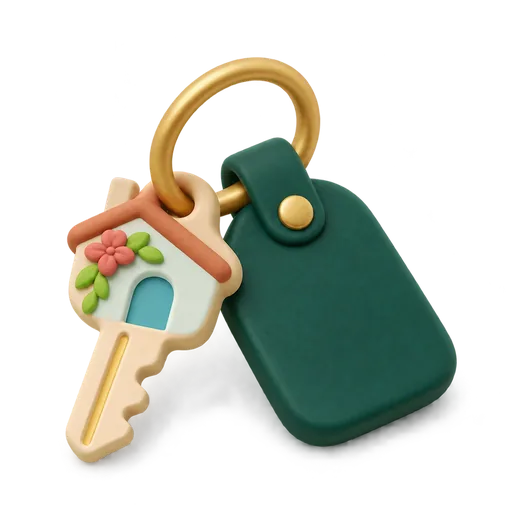
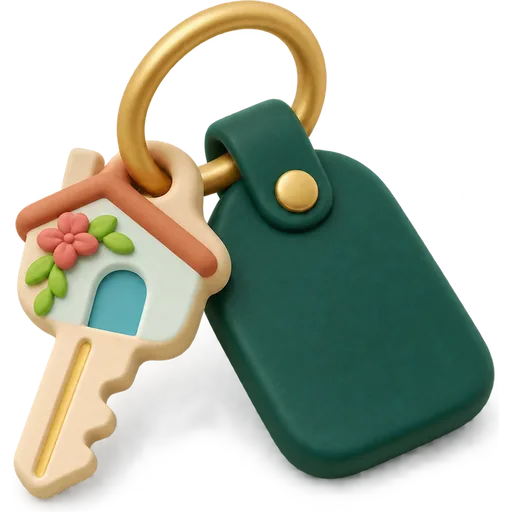
Görev 36.3: 3D görsel boyutları :root içinde tek tabloda; başlık görselleri 3x ekranda 512 px (srcset)

diff --git a/www/index.html b/www/index.html
@@ -92,8 +92,12 @@
     --egri-cekmece:cubic-bezier(.32, .72, 0, 1);    /* 31.1: alttan açılan panel (iOS çekmecesi gibi) */
     --iskelet-gecis:200ms;        /* 34.6: iskeletten içeriğe çapraz solma */
     --hiz-akordeon:300ms;
-    --baslik-gorsel:88px;         /* 35.3 ana sekme başlığının yanındaki 3D görsel; Büyük yazıda ve dar ekranda 48 pt */
-    --baslik-gorsel-kucuk:64px;         /* 34.1: arama adımları (Ne zaman → Kaç kişi) açılıp kapanma */
+    /* 36.3 3D görsel boyutları (hepsi buradan; 88 pt ve üstünde -512.webp, küçüklerde -256.webp) */
+    --g3d-baslik:88px;            /* Villalarım / Takvim / Hesap başlığı */
+    --g3d-baslik-kucuk:64px;      /* aynı başlık: dar ekranda (380 pt ve altı) ve büyük yazıda */
+    --g3d-bolum:56px;             /* bölüm başlıkları (liste doluyken boş hâl görselinin küçüğü) */
+    --g3d-kart:64px;              /* seçim kartları (.secKart) */
+    --g3d-bos:160px;              /* boş hâl ve sihirbaz çizimleri */
     --hiz-baslik:150ms;           /* 34.2: üst çubukta küçük başlığın belirmesi */
     --hiz-morf-ac:380ms;          /* 34.1: kart → arama paneli büyümesi */
     --hiz-morf-kapa:260ms;        /* 34.1: panel → kart küçülmesi (açılıştan hızlı) */
@@ -547,7 +551,7 @@
   /* 11.9 çizimler: en fazla ekranın %60'ı, ortada, altında mevcut metin */
   .cizim{display:block; width:60%; max-width:60vw; height:auto; aspect-ratio:1/1; margin:0 auto .75rem}
   .shSon .cizim{margin-bottom:0}
-  .cizim.cizim3d{width:9.5rem; max-width:50vw}   /* 35.2: 3D görsel 160 pt (boş hâllerle aynı) */
+  .cizim.cizim3d{width:var(--g3d-bos); max-width:50vw}   /* 35.2: 3D görsel, boş hâllerle aynı boy */
   .shSon{text-align:center; padding-top:2rem}
   .shEmoji{font-size:3.5rem; line-height:1}
   .shSon h1{margin-top:.75rem}
@@ -952,7 +956,7 @@
   .bosHal .bosIkon{width:5.5rem; height:5.5rem; border-radius:99px; background:var(--soft); color:var(--ok);
     display:flex; align-items:center; justify-content:center; flex:none}
   /* 34.7: 3D görsel 160 pt, ortada; yoksa yumuşak zeminli ikon dairesi */
-  .bosHal .bosGorsel{width:10rem; height:10rem; display:flex; align-items:center; justify-content:center; color:var(--ok); flex:none}
+  .bosHal .bosGorsel{width:var(--g3d-bos); height:var(--g3d-bos); display:flex; align-items:center; justify-content:center; color:var(--ok); flex:none}
   .bosHal .bosGorsel img{width:100%; height:100%; object-fit:contain}
   .bosHal .bosGorsel > .ik{display:none}
   .bosHal .bosGorsel.yok{width:5.5rem; height:5.5rem; border-radius:99px; background:var(--soft)}
@@ -1111,7 +1115,7 @@
   .secKartBas{font-size:1.0625rem; font-weight:500; line-height:1.3}
   .secKartAlt{font-size:.875rem; color:var(--muted); line-height:1.4}
   .secKartRozet{align-self:flex-start; font-size:.8125rem; color:var(--ok); background:var(--basili-zemin); border-radius:99px; padding:.125rem .5rem}
-  .secKartGorsel{flex:none; width:4rem; height:4rem; display:flex; align-items:center; justify-content:center; color:var(--ok)}
+  .secKartGorsel{flex:none; width:var(--g3d-kart); height:var(--g3d-kart); display:flex; align-items:center; justify-content:center; color:var(--ok)}
   .secKartGorsel img{width:100%; height:100%; object-fit:contain}
   .secKartGorsel > .ik{display:none}
   .secKartGorsel.yok{background:var(--soft); border-radius:1rem}
@@ -1409,15 +1413,16 @@
   .anaBas{display:flex; align-items:center; flex-wrap:wrap; gap:.5rem}
   .anaBas h1{margin:0; flex:none}
   /* 35.4 bölüm başlığının sağında küçük 3D görsel (56 pt). Uygulama hep açık zeminde: görselin arkasında daire yok (şeffaf PNG) */
-  .bolumGorsel{flex:none; display:inline-flex; width:3.5rem; height:3.5rem; align-self:center; margin:-.875rem auto -.875rem 0}
+  .bolumGorsel{flex:none; display:inline-flex; width:var(--g3d-bolum); height:var(--g3d-bolum); align-self:center;
+    margin:calc(var(--g3d-bolum) / -4) auto calc(var(--g3d-bolum) / -4) 0}
   .bolumGorsel img{width:100%; height:100%; object-fit:contain}
   .head > .bolumGorsel{margin:0 0 0 .5rem}
   h1.h1G > .bolumGorsel{margin:-.25rem 0}
   /* 35.3 başlık + 3D görsel aynı satırda, görsel dikey ortalı. Yazı büyüdükçe (kök 17 px'ten büyük) ve dar ekranda 48 pt */
   h1.h1G{display:flex; align-items:center; gap:.5rem}
   .baslikG{flex:none; display:block; object-fit:contain; margin:-1rem 0;
-    width:max(var(--baslik-gorsel-kucuk), calc(var(--baslik-gorsel) - (1rem - 17px) * 8)); height:auto; aspect-ratio:1/1}
-  @media (max-width:380px){ .baslikG{width:var(--baslik-gorsel-kucuk)} }
+    width:max(var(--g3d-baslik-kucuk), calc(var(--g3d-baslik) - (1rem - 17px) * 8)); height:auto; aspect-ratio:1/1}
+  @media (max-width:380px){ .baslikG{width:var(--g3d-baslik-kucuk)} }
   .anaBas #ozet{margin:0 0 0 auto; justify-content:flex-end}
   .anaBas #ozet.sm{margin:.25rem 0 0; flex-basis:100%}
   .anaBas .ozetEt .durumEt{min-height:3rem}
@@ -2076,7 +2081,7 @@
     <!-- 32.7: çift satış riski (kapatılamaz; çözülünce kalkar) -->
     <div id="cakismaKartlar" class="hide"></div>
     <!-- 18.15: başlığın sağında dolu / boş etiketleri (dar ekranda alta iner); altında yalnız "+ Villa ekle" -->
-    <div class="anaBas"><h1 class="h1G"><span>Villalarım</span><img class="baslikG" src="img/3d/baslik-villalar-256.webp" alt="" aria-hidden="true" width="256" height="256" loading="lazy" decoding="async" onerror="this.remove()"></h1><div class="sm muted" id="ozet"></div></div>
+    <div class="anaBas"><h1 class="h1G"><span>Villalarım</span><img class="baslikG" src="img/3d/baslik-villalar-512.webp" srcset="img/3d/baslik-villalar-256.webp 256w, img/3d/baslik-villalar-512.webp 512w" sizes="(max-width:380px) 64px, 88px" alt="" aria-hidden="true" width="256" height="256" loading="lazy" decoding="async" onerror="this.remove()"></h1><div class="sm muted" id="ozet"></div></div>
     <div class="hapSira hide" id="anaHap" role="toolbar"></div>
     <div class="siraIpucu hide" id="siraIpucu"></div>
     <div class="ipucu hide" id="ipucu"></div>
@@ -2103,7 +2108,7 @@
 
   <!-- TAKVİM SEKMESİ: tüm villaların yaklaşan giriş/çıkışları -->
   <div id="ajanda" class="hide sekmeEkran">
-    <h1 class="h1G"><span>Takvim</span><img class="baslikG" src="img/3d/baslik-takvim-256.webp" alt="" aria-hidden="true" width="256" height="256" loading="lazy" decoding="async" onerror="this.remove()"></h1>
+    <h1 class="h1G"><span>Takvim</span><img class="baslikG" src="img/3d/baslik-takvim-512.webp" srcset="img/3d/baslik-takvim-256.webp 256w, img/3d/baslik-takvim-512.webp 512w" sizes="(max-width:380px) 64px, 88px" alt="" aria-hidden="true" width="256" height="256" loading="lazy" decoding="async" onerror="this.remove()"></h1>
     <!-- 33.7: iki parça: Ajanda (giriş / çıkışlar) | Misafirler (bütün villaların misafirleri) -->
     <div class="seg ajUst" id="ajUst" role="tablist">
       <button data-u="ajanda" role="tab">Ajanda</button><button data-u="misafir" role="tab">Misafirler</button>
@@ -2129,7 +2134,7 @@
 
   <!-- HESAP SEKMESİ -->
   <div id="hesapEkran" class="hide sekmeEkran">
-    <h1 class="h1G"><span>Hesap</span><img class="baslikG" src="img/3d/baslik-hesap-256.webp" alt="" aria-hidden="true" width="256" height="256" loading="lazy" decoding="async" onerror="this.remove()"></h1>
+    <h1 class="h1G"><span>Hesap</span><img class="baslikG" src="img/3d/baslik-hesap-512.webp" srcset="img/3d/baslik-hesap-256.webp 256w, img/3d/baslik-hesap-512.webp 512w" sizes="(max-width:380px) 64px, 88px" alt="" aria-hidden="true" width="256" height="256" loading="lazy" decoding="async" onerror="this.remove()"></h1>
     <div style="margin-top:1.25rem">
     <!-- 29.3: Yönetim bölümü yalnız yöneticiye / onaycıya JavaScript ile eklenir (diğer kullanıcılarda DOM'da hiç yok) -->
     <div id="yonetimYer"></div>

diff --git a/www/g.html b/www/g.html
@@ -15,6 +15,7 @@
 <style>
   :root{--bugun:#E5484D;--ink:#12232B;--muted:#5B6A72;--line:#E3E9EC;--soft:#F4F7F8;--dolu:#DDE4E7;--dip:#A3B0B6;
     --yes:#0B5B57;--yesKoyu:#084842;
+    --g3d-misafir:80px; /* 36.3 3D görsellerin boyu (bölüm başlıkları, "Kaç kişi", iletişim, teklif şeridi) */
     --serif:ui-serif,Georgia,"Times New Roman",serif;
     --egri-gecis:cubic-bezier(0.65, 0, 0.35, 1); --egri-giris:cubic-bezier(0.22, 1, 0.36, 1);
     --sans:-apple-system,BlinkMacSystemFont,"Segoe UI",Roboto,Helvetica,Arial,sans-serif}
@@ -270,9 +271,9 @@
   .ornek.bugunOrnek{background:#fff;box-shadow:inset 0 0 0 2.5px var(--bugun)}
   .uyari{font-size:.8125rem;color:#9B2C4A;margin-top:.75rem;min-height:1.25rem}
   /* 35.6 / 36.1 3D görseller (80 pt). Sayfa hep açık zeminde; görselin arkasında daire, renk yok (şeffaf webp) */
-  .g3d{display:block;width:5rem;height:5rem;object-fit:contain;flex:none;pointer-events:none}
+  .g3d{display:block;width:var(--g3d-misafir);height:var(--g3d-misafir);object-fit:contain;flex:none;pointer-events:none}
   /* başlık satırı görselsiz başlıkla aynı yükseklikte kalır (25 px): görsel üstüne ve altına taşar */
-  h2.bBasG .g3d{margin:-1.75rem 0 -1.75rem auto}
+  h2.bBasG .g3d{margin:calc(var(--g3d-misafir) / -2 + .75rem) 0 calc(var(--g3d-misafir) / -2 + .75rem) auto}
   .g3dOnay{margin:-.25rem auto .5rem}
   .g3dDip{margin:1.25rem auto 0}
   .g3dDip + .dipTel{margin-top:.5rem}

diff --git a/www/sw.js b/www/sw.js
@@ -3,7 +3,7 @@
 
 // Sürüm: her yayında artırılır. Dosya değişince telefonlar yeni servisi kurar;
 // açılışta eski sürümlerden kalan önbellekler silinir, böylece eski ekran kalmaz.
-var SURUM = "vt-2026-11-23-gorev36b";
+var SURUM = "vt-2026-11-23-gorev36c";
 
 self.addEventListener("install", function (e) {
   self.skipWaiting();

diff --git a/docs/STIL.md b/docs/STIL.md
@@ -252,6 +252,18 @@ ile işaretlenir (iki kez çarpılmasın).
   - 3D görseller dekupe (şeffaf webp) ve kendi gölgeleri var. Arkalarında hiçbir hâlde (gece modu, büyük yazı, dokunma, seçili kart)
     renk, daire, kare, kenarlık ya da ikinci gölge (`drop-shadow`) olmaz; uygulama ve misafir sayfası hep açık zeminde (Görev 36.2).
     Tek istisna: görsel yüklenemeyince çıkan ikonlu yedek hâl (`.bosGorsel.yok`, `.secKartGorsel.yok`), orada `--soft` zemin kalır.
+  - Boyutlar tek yerden, `:root` (Görev 36.3). Başka yerde rem/px yazılmaz:
+
+    | Değişken | Yer | Boyut |
+    |---|---|---|
+    | `--g3d-baslik` / `--g3d-baslik-kucuk` | Villalarım / Takvim / Hesap başlığı | 88 pt; 380 pt ve altı ekranda, büyük yazıda 64 pt |
+    | `--g3d-bolum` | bölüm başlıkları (liste doluyken) | 56 pt |
+    | `--g3d-kart` | seçim kartları (`.secKart`) | 64 pt |
+    | `--g3d-bos` | boş hâl, sihirbaz | 160 pt |
+    | `--g3d-misafir` (g.html) | misafir sayfası | 80 pt |
+
+  - Dosyalar: `-256.webp` kenarları kırpılmış kare; `-512.webp` tam kare (boş hâl, sihirbaz). Başlık görsellerinin (`baslik-*`)
+    `-512`'si de kırpılmış, `srcset` ile 3x ekranda o seçilir; 88 pt altındaki yerlerde `-256` yeter.
 - **Yükleniyor (Görev 31.7):** dönen çark yerine iskelet (gri kutu, yazı yerine yuvarlak çizgiler).
   - Yalnız veri 300 ms'de gelmezse görünür (`--iskelet-gecikme`); göründüyse en az 400 ms kalır (`--iskelet-en-az`, `iskeletBitir`).
   - Üstünde 1,6 sn'lik yavaş, doğrusal parlama dolaşır (`--iskelet-parlama`); "Hareketi azalt"ta sabit.
